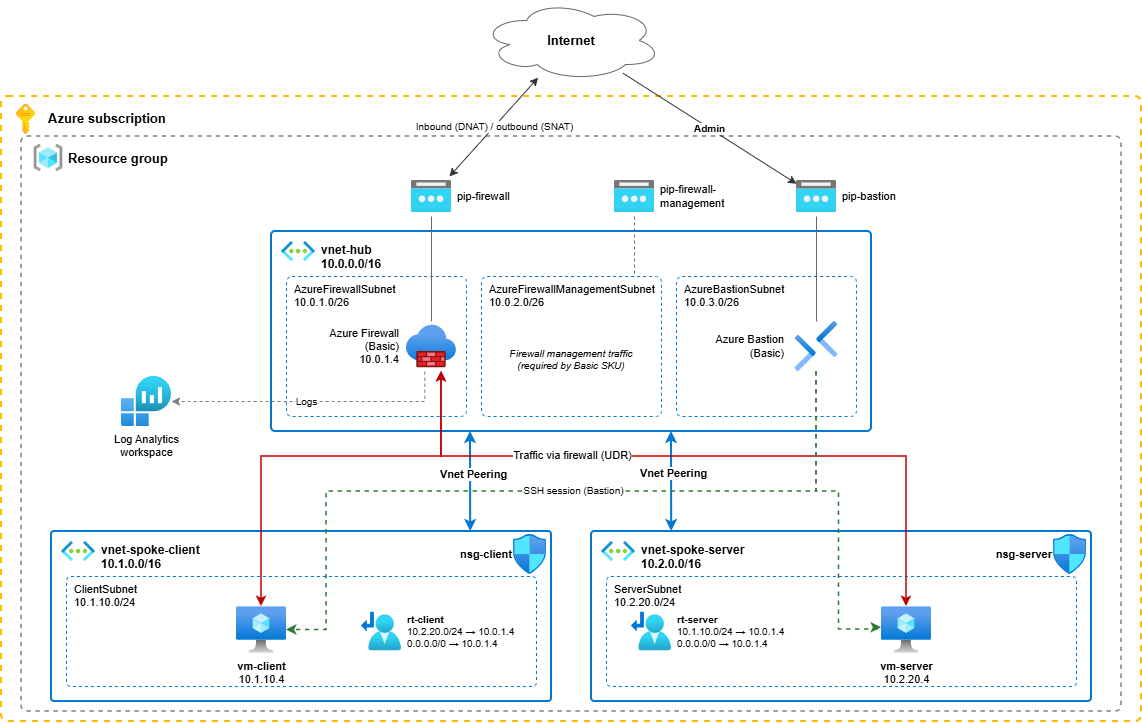
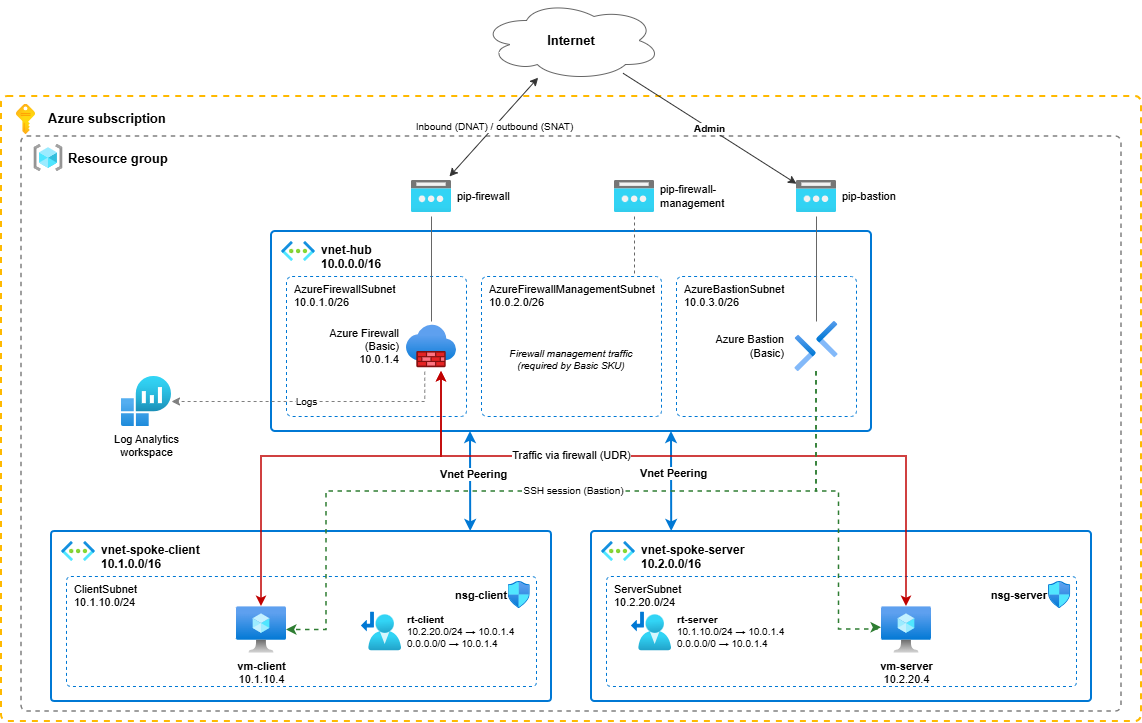
Update lab to version 1.1

Changed region(s): [[0.8581, 0.7303, 0.9501, 0.852], [0.3984, 0.7303, 0.4904, 0.852], [0.4597, 0.6086, 0.5517, 0.639]]

diff --git a/README.md b/README.md
@@ -8,7 +8,7 @@ This repository contains a small hub-spoke lab for practising Azure Firewall man
 > - The optional DNAT rule opens an SSH port on the firewall's public IP to the internet (limited to your own IP address).
 > - Terraform state is kept in a local file, which contains resource details in plain text.
 >
-> The lab also costs money while it is running. Run `terraform destroy` when you are done.
+> The lab also costs money while it is running. Run `terraform destroy` when you are done. See [Costs and clean-up](#costs-and-clean-up).
 
 
 
@@ -29,7 +29,8 @@ The image below shows the final architecture of the environment:
 * There is no inbound access from the internet by default. An optional DNAT rule for SSH can be enabled (see [Optional: inbound SSH through the firewall (DNAT)](#optional-dnat)).
 * The firewall sends its network rule and NAT rule logs to resource-specific tables in Log Analytics.
 
-### Networks and IP addresses
+<details>
+<summary><h3>Networks and IP addresses</h3> (click to expand)</summary>
 
 * `vnet-hub` (`10.0.0.0/16`)
   * `AzureFirewallSubnet` (`10.0.1.0/26`): Azure Firewall
@@ -43,6 +44,8 @@ The image below shows the final architecture of the environment:
     * `vm-server`: `10.2.20.4` (static)
 
 The firewall's private IP is assigned by Azure (usually `10.0.1.4`). Run `terraform output firewall_private_ip` to see it, or check from the Azure portal.
+
+</details>
 
 ### Traffic allowed by default
 
@@ -99,25 +102,28 @@ The firewall's private IP is assigned by Azure (usually `10.0.1.4`). Run `terraf
 > [!TIP]
 > Highly recommended: [VS Code](https://code.visualstudio.com/) with the [HashiCorp Terraform extension](https://marketplace.visualstudio.com/items?itemName=HashiCorp.terraform). You can edit the Terraform files and run the commands in the integrated terminal in the same window.
 
+## Before you deploy
+
+> [!IMPORTANT]
+> Check that your subscription can use the lab's region and VM size. Some subscriptions, such as Azure for Students, only allow certain regions.
 
 <details>
-<summary><b>Optional: install the tools with winget (Windows)</b></summary>
+<summary><b>How to check the region and VM size</b> (click to expand)</summary>
 
-```powershell
-winget install --exact --id Microsoft.VisualStudioCode
-winget install --exact --id Git.Git
-winget install --exact --id Microsoft.AzureCLI
-winget install --exact --id Hashicorp.Terraform
-```
+The defaults are `location = "swedencentral"` and `vm_size = "Standard_B2pts_v2"` in `variables.tf`.
 
-Close and reopen the terminal so the new commands are found, then install the Terraform extension and check the versions:
+1. **Allowed regions.** In the portal, see **Policy → Assignments → Allowed resource deployment regions**, or run:
+   ```powershell
+   az policy assignment show --name sys.regionrestriction --query parameters --output json
+   ```
+   If your subscription has this restriction, the output lists the allowed locations.
+2. **VM size in the region.** Run the command below. If you plan to use another region, replace `swedencentral` with its name, for example `germanywestcentral`:
+   ```powershell
+   az vm list-skus --location swedencentral --size Standard_B2pts --all --output table
+   ```
+   If the **Restrictions** column shows `NotAvailableForSubscription`, pick another region or size. This check does not detect temporary capacity shortages, so the deployment can still fail with a capacity or `SkuNotAvailable` error. See [Troubleshooting](#troubleshooting).
 
-```powershell
-code --install-extension hashicorp.terraform
-git --version
-az version
-terraform -version
-```
+To use another region or size, set `location` or `vm_size` in `terraform.tfvars`. Region names must be in the programmatic form (for example `swedencentral`, not "Sweden Central"). See the [list of Azure regions](https://learn.microsoft.com/en-us/azure/reliability/regions-list?tabs=europe) for the programmatic names.
 
 </details>
 
@@ -126,21 +132,21 @@ terraform -version
 1. Open VS Code and select **Clone Git Repository** on the Welcome page. If the Welcome page is not shown, open the Command Palette with **Ctrl+Shift+P** and run **Git: Clone**.
 2. Paste the repository URL and press **Enter**:
    ```
-   https://github.com/hautadata/firewall-lab-pilot.git
+   https://github.com/hautadata/azure-firewall-lab.git
    ```
 3. Choose where to save the lab. Create a new folder for it, for example `labs` in your home folder, so it doesn't end up in a random location.
 4. When VS Code asks whether to open the cloned repository, select **Open**.
 5. Open the integrated terminal from **Terminal → New Terminal**. It starts in the lab folder, and you run the rest of the commands there.
 
 <details>
-<summary><b>Alternative: steps 1–5 with the command line</b></summary>
+<summary><b>Alternative: steps 1–5 with the command line</b> (click to expand)</summary>
 
 Any terminal works (PowerShell, Windows Terminal, bash):
 
 ```powershell
 mkdir ~/labs
 cd ~/labs
-git clone https://github.com/hautadata/firewall-lab-pilot.git
+git clone https://github.com/hautadata/azure-firewall-lab.git
 cd <repo>
 ```
 
@@ -149,7 +155,7 @@ To edit the files in VS Code, run `code .` in the lab folder. It opens the folde
 </details>
 
 <details>
-<summary><b>Alternative: steps 1–5 without Git</b></summary>
+<summary><b>Alternative: steps 1–5 without Git</b> (click to expand)</summary>
 
 On the repository page on GitHub, select **Code → Download ZIP** and extract the ZIP to a folder of your choice, for example `labs` in your home folder. Open the extracted folder in VS Code from **File → Open Folder**, then open the integrated terminal from **Terminal → New Terminal**.
 
@@ -205,7 +211,7 @@ The lab uses the Bastion Basic SKU, which supports connections from the portal o
 Open a Bastion session to both VMs. The tests use `nc` (netcat), which is preinstalled on Ubuntu. Port 443 needs `sudo` on the server because it is below 1024.
 
 <details>
-<summary><b>nc options used in the tests</b></summary>
+<summary><b>nc options used in the tests</b> (click to expand)</summary>
 
 * `-l` listen for incoming connections (server side)
 * `-k` keep listening after a client disconnects, so you can test several times
@@ -244,7 +250,7 @@ How to read the results:
 You can repeat the test for TCP 3306 with `nc -lk 3306` on the server.
 
 <details>
-<summary><b>Try your own tests</b></summary>
+<summary><b>Try your own tests</b> (click to expand)</summary>
 
 The lab is meant for experimenting. A few ideas:
 
@@ -316,7 +322,7 @@ All firewall rules are in `firewall-rules.tf`. They are organised in three level
 Priorities range from 100 (processed first) to 65000 (processed last). The firewall processes rule collection groups in priority order, then the rule collections inside each group, and stops at the first matching rule. DNAT rules are processed before network rules. Traffic that matches no rule is denied.
 
 <details>
-<summary><b>Example: allow a new connection</b></summary>
+<summary><b>Example: allow a new connection</b> (click to expand)</summary>
 
 To allow SSH from vm-client to vm-server, add a rule to the existing `internal-network-rules` collection:
 
@@ -340,7 +346,7 @@ Remember that traffic to the VMs also passes the subnet's NSG. For this example 
 </details>
 
 <details>
-<summary><b>Example: block a destination with a Deny collection</b></summary>
+<summary><b>Example: block a destination with a Deny collection</b> (click to expand)</summary>
 
 Because everything not allowed is already denied, `Deny` collections are mainly useful for making exceptions to broad allow rules. For example, to block vm-client from one address that the outbound rule (priority 200) would otherwise allow, add a collection with a smaller priority number to `rcg-network`:
 
@@ -370,7 +376,7 @@ terraform apply tfplan
 ```
 
 <details>
-<summary><h3>Viewing the rules in the Azure portal</h3></summary>
+<summary><h3>Viewing the rules in the Azure portal</h3> (click to expand)</summary>
 
 Open the Azure portal and go to **Firewall Policies** → `fwpolicy-azure-firewall-lab` → **Rule collections**. The view lists the rule collection groups, their rule collections and the individual rules with their priorities and actions.
 
@@ -405,7 +411,7 @@ AZFWNatRule
 The time range picker above the query sets how far back the results go (by default the last 24 hours). The workspace keeps data for 30 days.
 
 <details>
-<summary><b>Example queries</b></summary>
+<summary><b>Example queries</b> (click to expand)</summary>
 
 Recent network rule decisions, newest first, with the most useful columns:
 ```kusto
@@ -461,9 +467,66 @@ You can combine filters on separate `where` lines, for example `| where SourceIp
 
 </details>
 
+<a id="troubleshooting"></a>
+<details>
+<summary><h2>Troubleshooting</h2></summary>
+
+<details>
+<summary><b>VM capacity or SKU errors</b> (click to expand)</summary>
+
+If apply fails with a capacity or `SkuNotAvailable` error, change the region, the VM size, or both in `variables.tf`:
+
+* `location`: for example one of the regions your subscription allows
+* `vm_size`: for example another size that `az vm list-skus` shows without restrictions
+
+The default `Standard_B2pts_v2` is an Arm64 size. If you switch to an x86 size such as `Standard_B2als_v2` or `Standard_B2s`, also change the image to match the architecture. The image is set in `vm.tf` (not a variable), in the `source_image_reference` block of **both** VMs:
+
+| Architecture | Example sizes | `sku` |
+|---|---|---|
+| Arm64 | `Standard_B2pts_v2` | `server-arm64` |
+| x64 | `Standard_B2als_v2`, `Standard_B2s` | `server` |
+
+`publisher = "Canonical"` and `offer = "ubuntu-24_04-lts"` stay the same.
+
+</details>
+
+<details>
+<summary><b>Failed apply</b> (click to expand)</summary>
+
+A failed apply can leave some resources created and some not. Before you change the region or try again in another region, clean up first:
+
+```bash
+terraform destroy
+```
+
+Otherwise the Terraform state and the partially created resources get mixed. After destroy, check that the resource group is gone:
+
+```bash
+az group exists --name rg-azure-firewall-lab
+```
+
+If it returns `true`, delete the resource group `rg-azure-firewall-lab` in the Azure portal.
+
+</details>
+
+<details>
+<summary><b><code>az login</code> problems in the browser</b> (click to expand)</summary>
+
+If the sign-in page doesn't complete or return to the terminal, try another browser, or sign in with a device code instead:
+
+```powershell
+az login --use-device-code
+```
+
+</details>
+
+</details>
+
 ## Costs and clean-up
 
-The lab is billed while it exists, even when there is no traffic. The largest costs come from Azure Firewall and Azure Bastion, which are billed per hour. The VMs, public IP addresses and log ingestion add to this. Check current prices for your region with the [Azure pricing calculator](https://azure.microsoft.com/pricing/calculator/).
+The lab is billed while it exists, even when there is no traffic. According to the [Azure pricing calculator](https://azure.microsoft.com/pricing/calculator/) (November 2026), the lab costs about **€13.5 per 24 hours**, which is roughly **€0.56 per hour**. A 3-hour session costs under €2.
+
+Azure Firewall and Azure Bastion make up about 97 % of the cost and are billed per hour regardless of traffic. The VMs, public IP addresses and log ingestion make up the rest. On some subscriptions, such as Azure for Students, the VM size may be covered by Azure free services. Prices vary by region and over time, so check the current prices for your region.
 
 When you are done, delete everything the lab created:
 ```bash
@@ -472,10 +535,12 @@ terraform destroy
 
 Destroying the firewall and Bastion also takes a while. Afterwards, check in the Azure portal that the resource group `rg-azure-firewall-lab` is gone.
 
-<details>
-<summary><b>Optional: remove NetworkWatcherRG</b></summary>
+Azure automatically creates a `NetworkWatcherRG` resource group when a virtual network is created. It is not managed by Terraform, costs nothing and can be left in place.
 
-When the lab creates its virtual networks, Azure automatically creates a resource group called `NetworkWatcherRG` with a Network Watcher for the region. Terraform does not manage it, so `terraform destroy` leaves it in place. It doesn't cost anything, but you can delete it if you want a clean subscription:
+<details>
+<summary><b>Optional: remove NetworkWatcherRG</b> (click to expand)</summary>
+
+If you want a clean subscription, you can delete it:
 
 1. In the Azure portal, go to **Resource groups** → `NetworkWatcherRG`.
 2. Select **Delete resource group**, type the resource group name to confirm and select **Delete**.
@@ -483,4 +548,9 @@ When the lab creates its virtual networks, Azure automatically creates a resourc
 Only delete it if you have no other virtual networks in the subscription that use it. Azure creates it again automatically the next time you deploy a virtual network.
 
 </details>
+
+## Changelog
+
+* **v1.1**: Documentation updates based on tester feedback: pre-deployment checks, troubleshooting and cost figures.
+* **v1.0**: Tested version.
 
